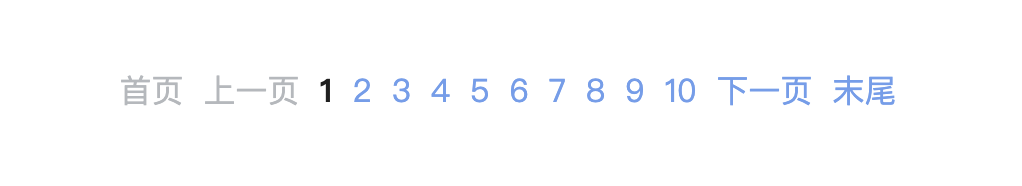
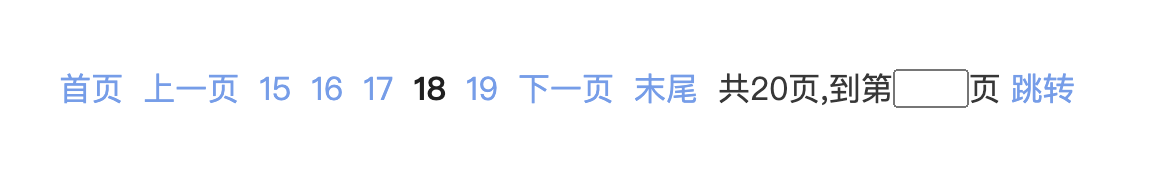
Pager组件添加页码框输入跳转功能 | 更新组件文档

Changed region(s): [[0.0303, 0.3495, 0.9403, 0.5914]]

diff --git a/src/components/Pager/index.vue b/src/components/Pager/index.vue
@@ -21,6 +21,12 @@
       :class="{ disabled: current === calculatePage }"
       >末尾</a
     >
+    <div class="jump-wrapper">
+      <span>共{{ calculatePage }}页,到第</span>
+      <input type="number" :max="calculatePage" :min="1" ref="jumpNumber" />
+      <span>页</span>
+    </div>
+    <a @click="clickJump">跳转</a>
   </div>
 </template>
 
@@ -90,6 +96,19 @@ export default {
                 return
             }
             this.$emit('changeCurrent', currentNumber)
+        },
+        clickJump(){
+          const jumpNumber = parseInt(this.$refs.jumpNumber.value);
+          console.log(jumpNumber)
+          console.log(typeof jumpNumber)
+          if(jumpNumber < 1){
+            return
+          }
+          if(jumpNumber > this.calculatePage){
+            return
+          }
+          this.$emit('changeJump', jumpNumber);
+
         }
     }
 }
@@ -101,6 +120,11 @@ export default {
   display: flex;
   justify-content: center;
   margin-top: 100px;
+  .jump-wrapper {
+    display: flex;
+    align-items: center;
+    margin-left: 5px;
+  }
 }
 a {
   padding: 5px;

diff --git a/src/components/Pager/test.vue b/src/components/Pager/test.vue
@@ -2,6 +2,7 @@
   <div class="pager-wrapper">
     <Pager
       v-on:changeCurrent="handleChangeCurrent"
+      v-on:changeJump="handleChangeJump"
       :current="current"
       :total="200"
       :pageTotal="10"
@@ -24,6 +25,9 @@ export default {
   },
     methods:{
     handleChangeCurrent(val){
+      this.current = val;
+    },
+    handleChangeJump(val){
       this.current = val;
     }
   }

diff --git a/src/components/document/document.md b/src/components/document/document.md
@@ -56,6 +56,7 @@ npm run test:Icon
 | 事件名        | 含义                                                | 事件参数      | 参数类型 |
 | ------------- | --------------------------------------------------- | ------------- | -------- |
 | changeCurrent | 用户点击页码(页码非当前页码)时,通知父组件改变其数据 | currentNumber | Number   |
+| changeJump    | 用户在页码框输入,点击跳转页码,通知父组件改变其数据  | jumpNumber    | Number   |
 
 ```bash
 npm run test:Pager
